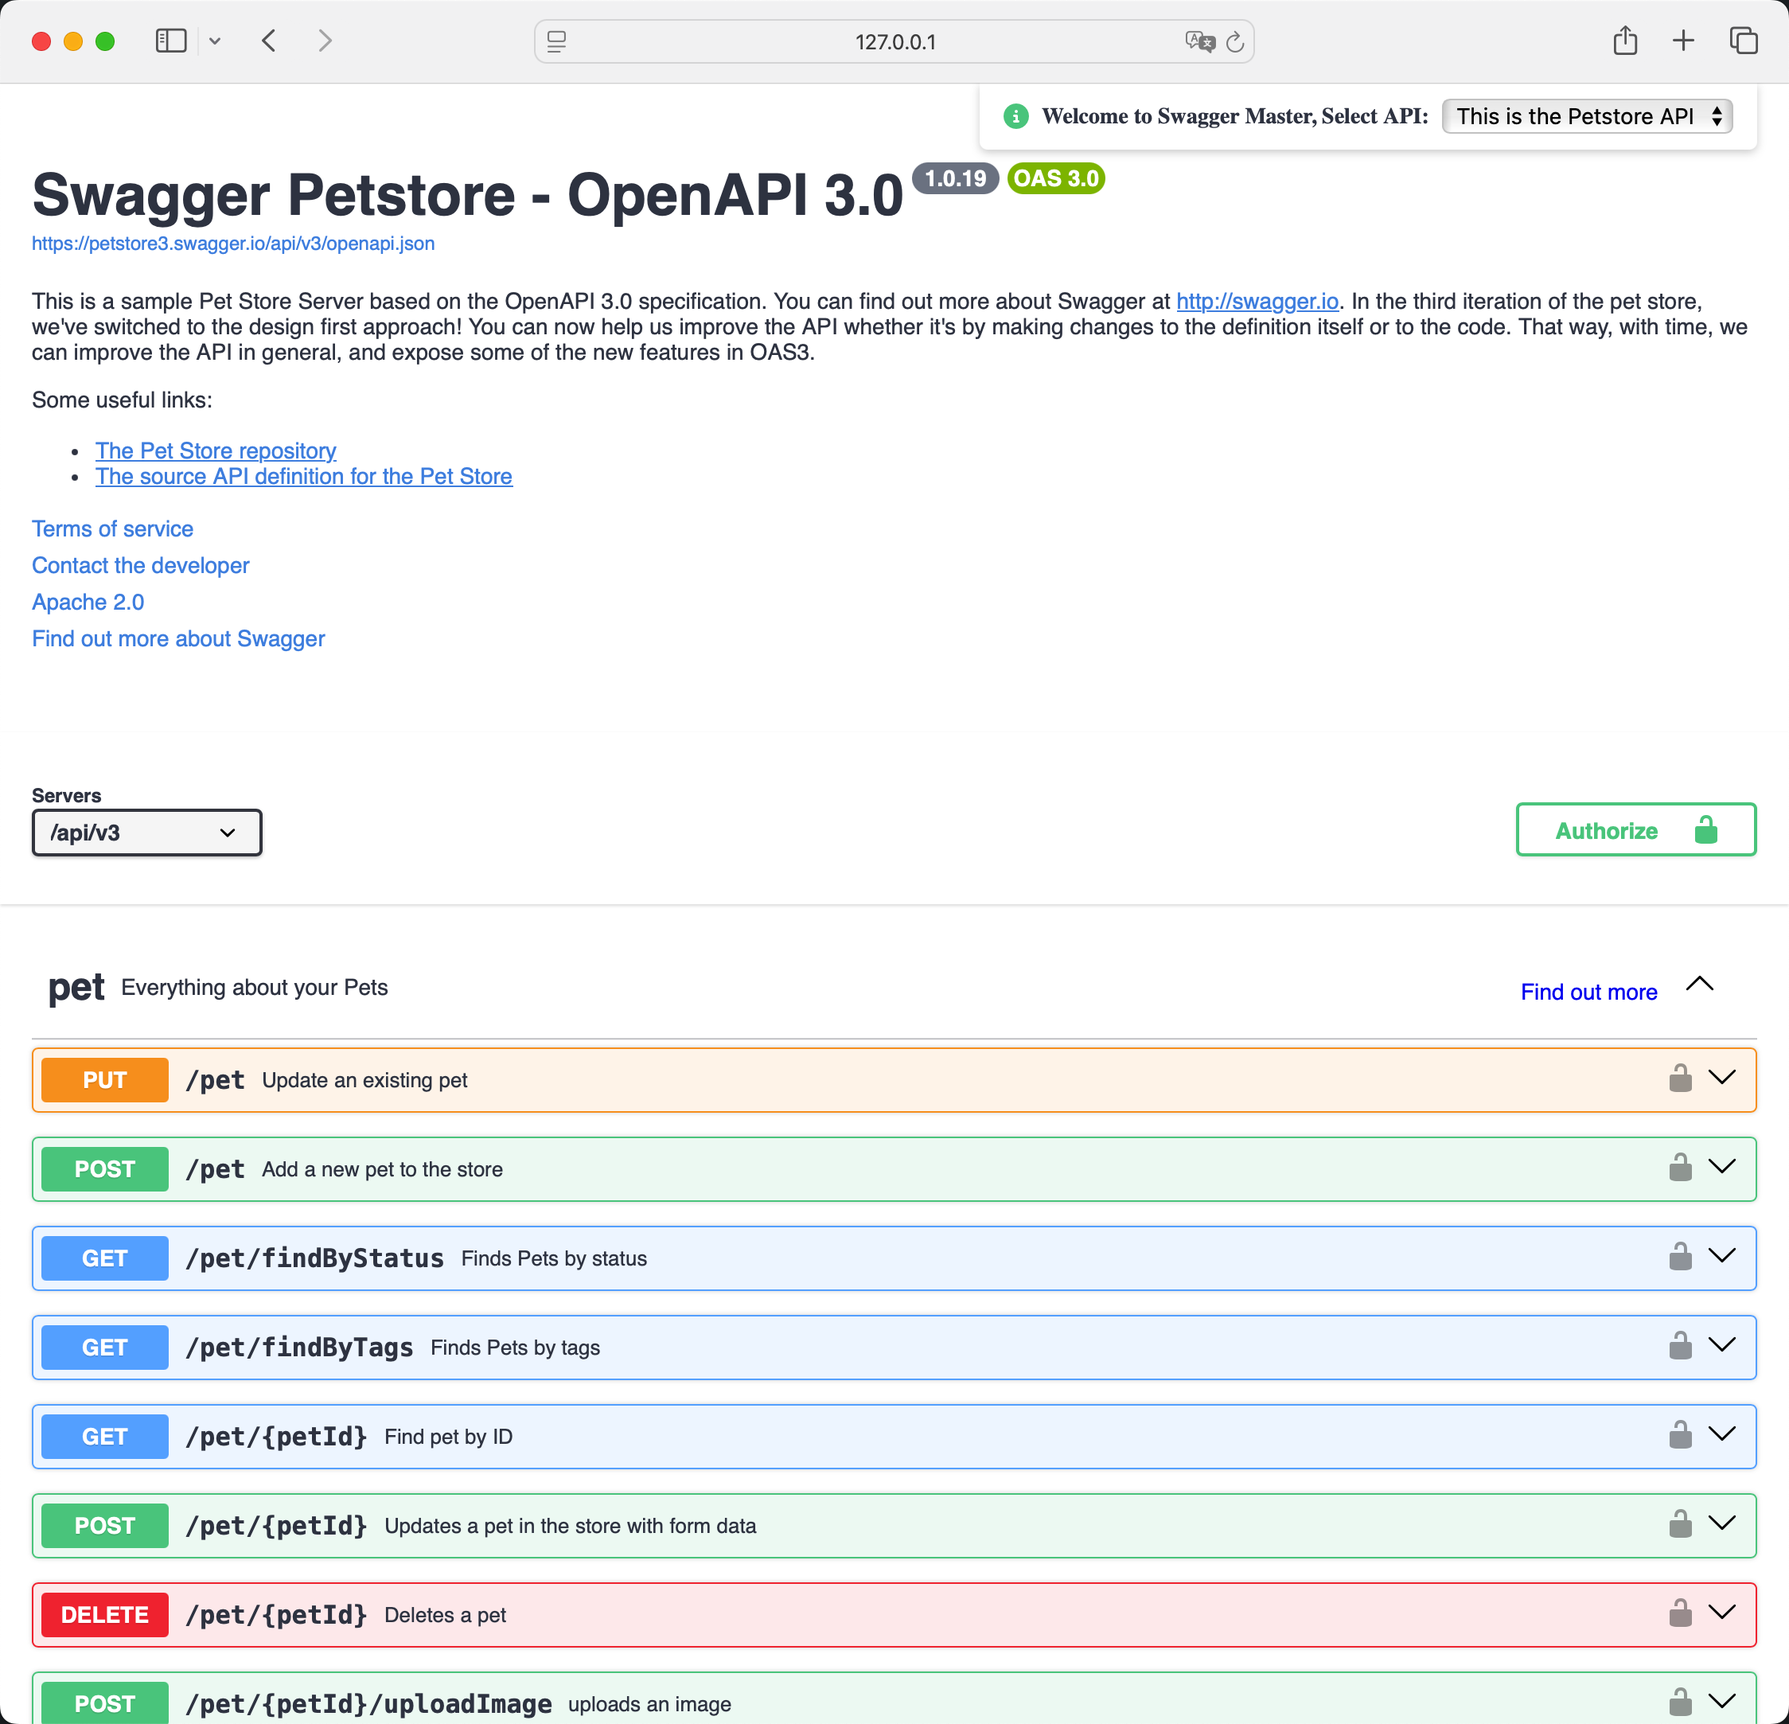
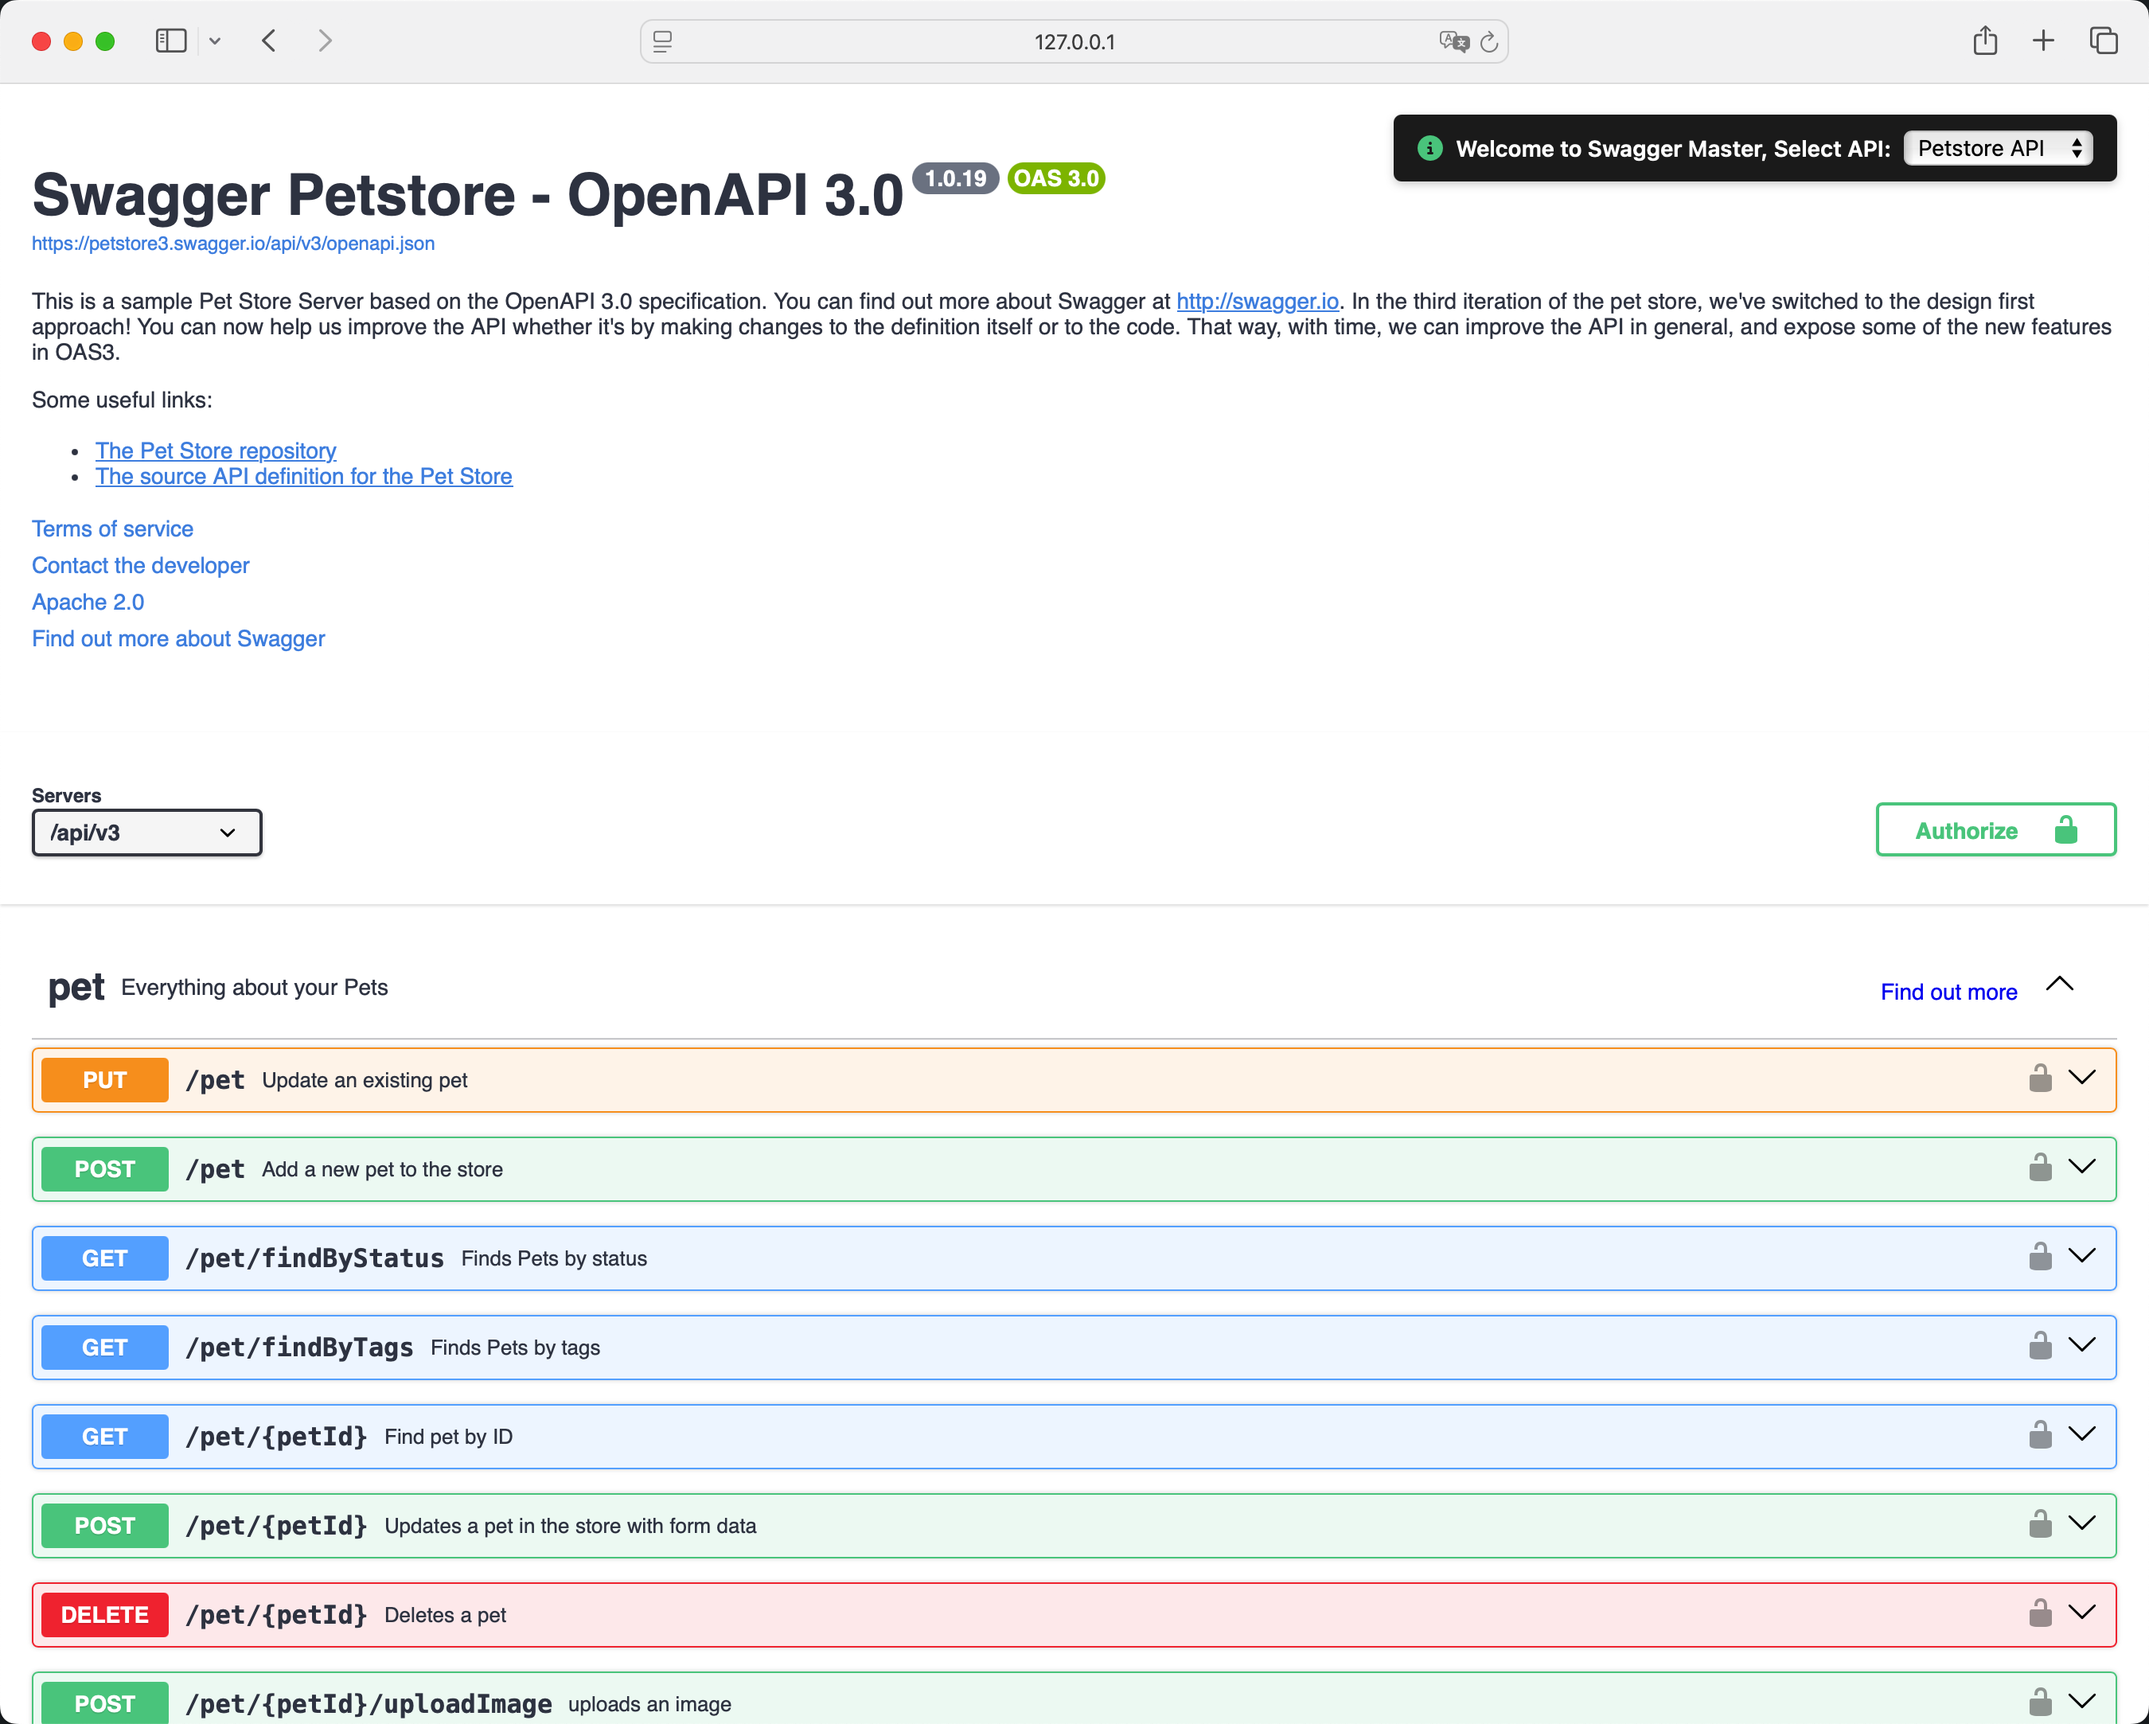
Refactor index.html styles and update API name; replace background color and adjust positioning for improved UI. Update swagger-master.png image file.

diff --git a/index.html b/index.html
@@ -19,13 +19,13 @@
         
         #api-selector {
             position: fixed;
-            top: 0;
+            top: 20px;
             right: 20px;
             z-index: 1000;
             padding: 10px 15px;
-            background: white;
-            border-radius: 0 0 5px 5px;
-            box-shadow: 0 2px 5px rgba(0,0,0,0.2);
+            background: #222;
+            border-radius: 5px 5px 5px 5px;
+            box-shadow: 0px 2px 5px rgba(0,0,0,0.2);
             display: flex;
             align-items: center;
             gap: 8px;
@@ -33,8 +33,10 @@
         }
         
         #api-selector label {
+            font-family: -apple-system, BlinkMacSystemFont, "Segoe UI", Roboto, 
+                         "Helvetica Neue", Arial, sans-serif;
             font-size: 14px;
-            color: #3b4151;
+            color: white;
             font-weight: 600;
             white-space: nowrap;
         }
@@ -69,7 +71,7 @@
          */
         const API_LIST = [
             {
-                name: 'This is the Petstore API',
+                name: 'Petstore API',
                 url: 'https://petstore3.swagger.io/api/v3/openapi.json'
             },
             {
